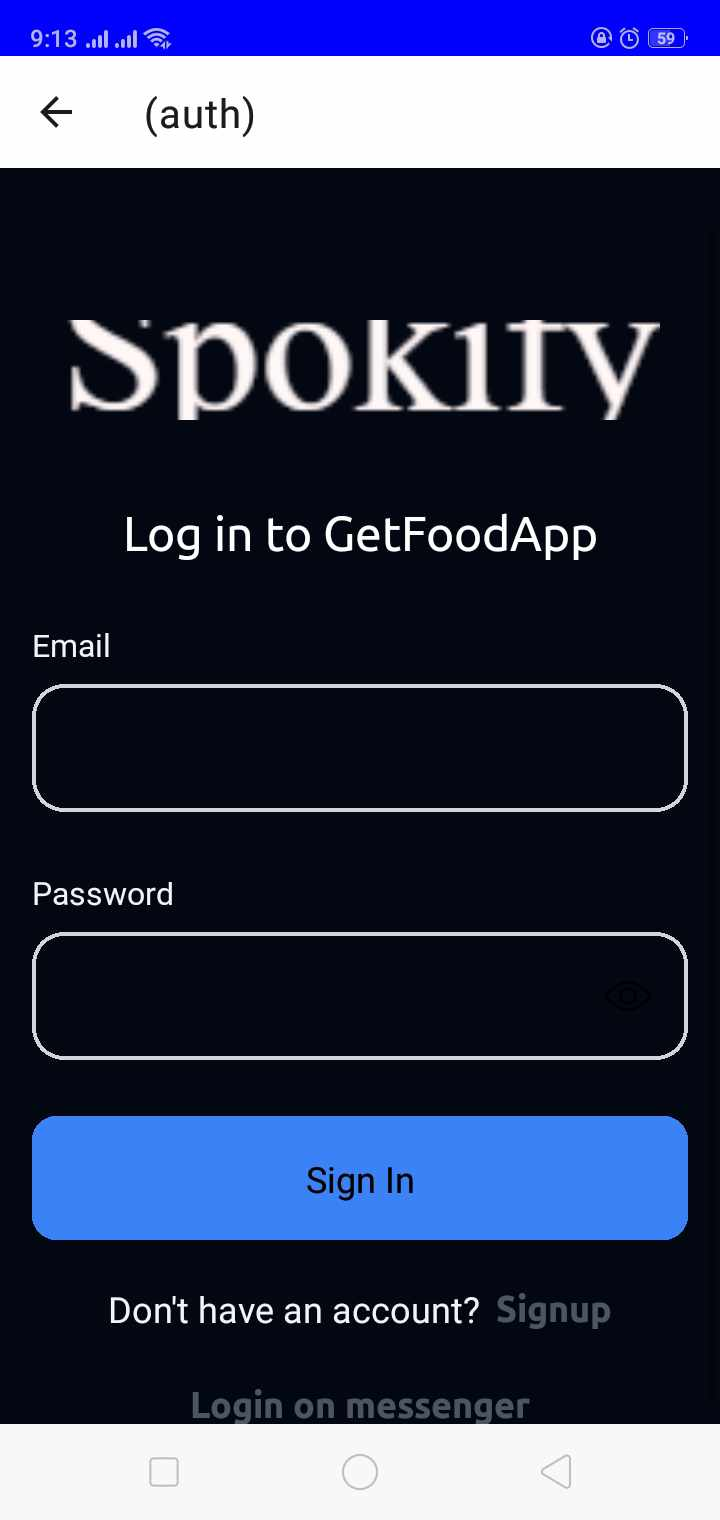
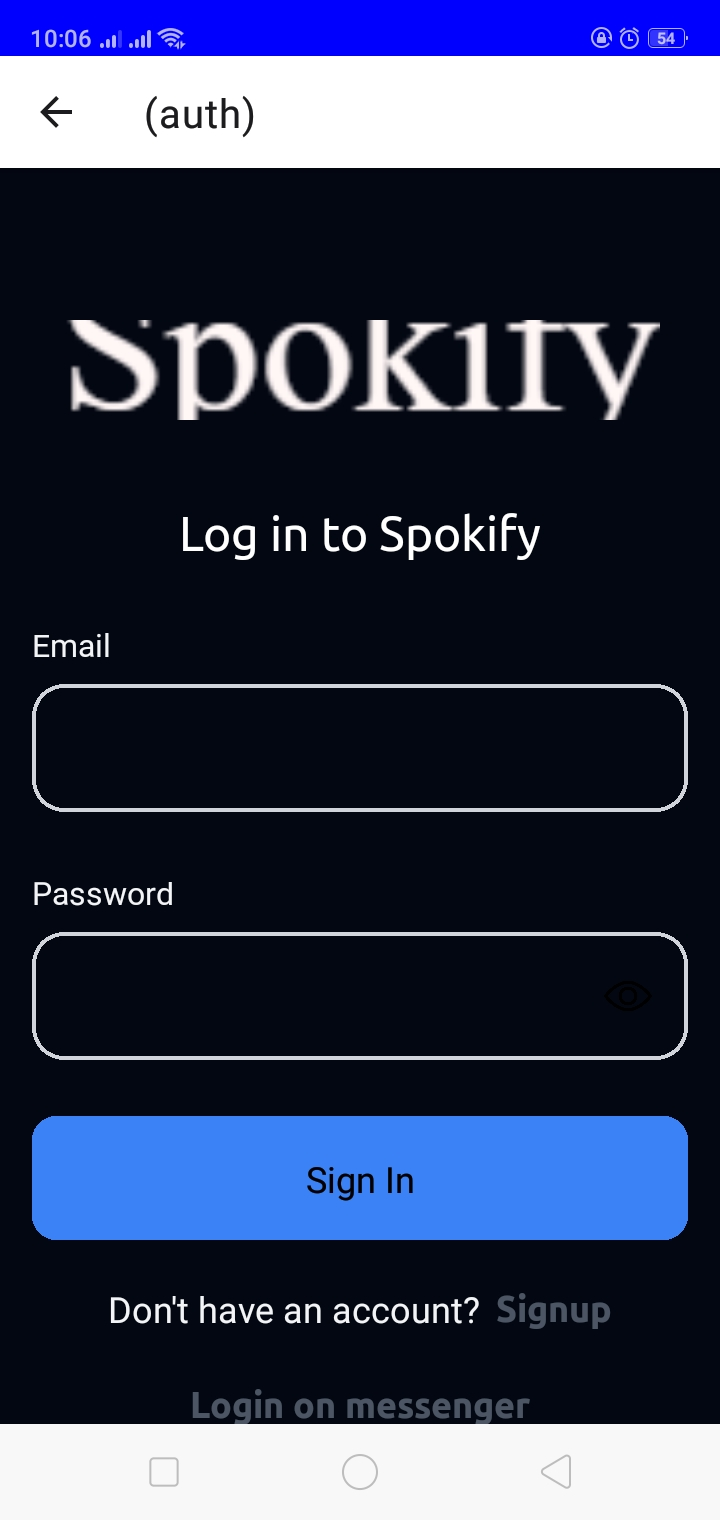
First Commit

diff --git a/app/(auth)/sign-up.jsx b/app/(auth)/sign-up.jsx
@@ -22,7 +22,7 @@ const SignUp = () => {
                 resizemode='contain'
                 className="w-[200px] h-[30px] "
               />
-              <Text className="text-2xl text-white mt-5 font-u_regular ">Sign up to GetFoodApp</Text>
+              <Text className="text-2xl text-white mt-5 font-u_regular ">Sign up to SpoKify</Text>
               <FormField
                   title="Username"
                   value={form.username}

diff --git a/app/(auth)/sign-in.jsx b/app/(auth)/sign-in.jsx
@@ -24,7 +24,7 @@ const SignIn = () => {
             className="w-[300px] h-[50px]"
           />
           <Text className="text-2xl text-white mt-10 font-u_regular">
-            Log in to GetFoodApp
+            Log in to Spokify
           </Text>
           <FormField
             title="Email"
